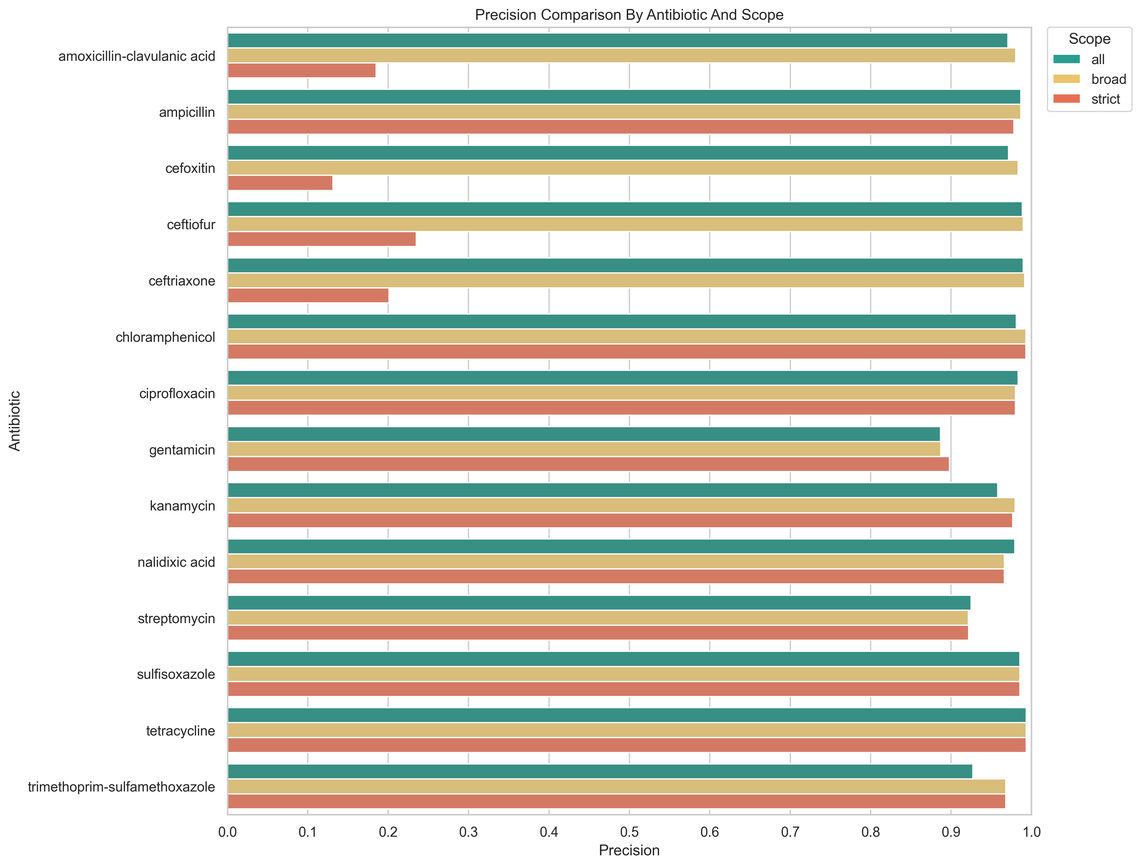
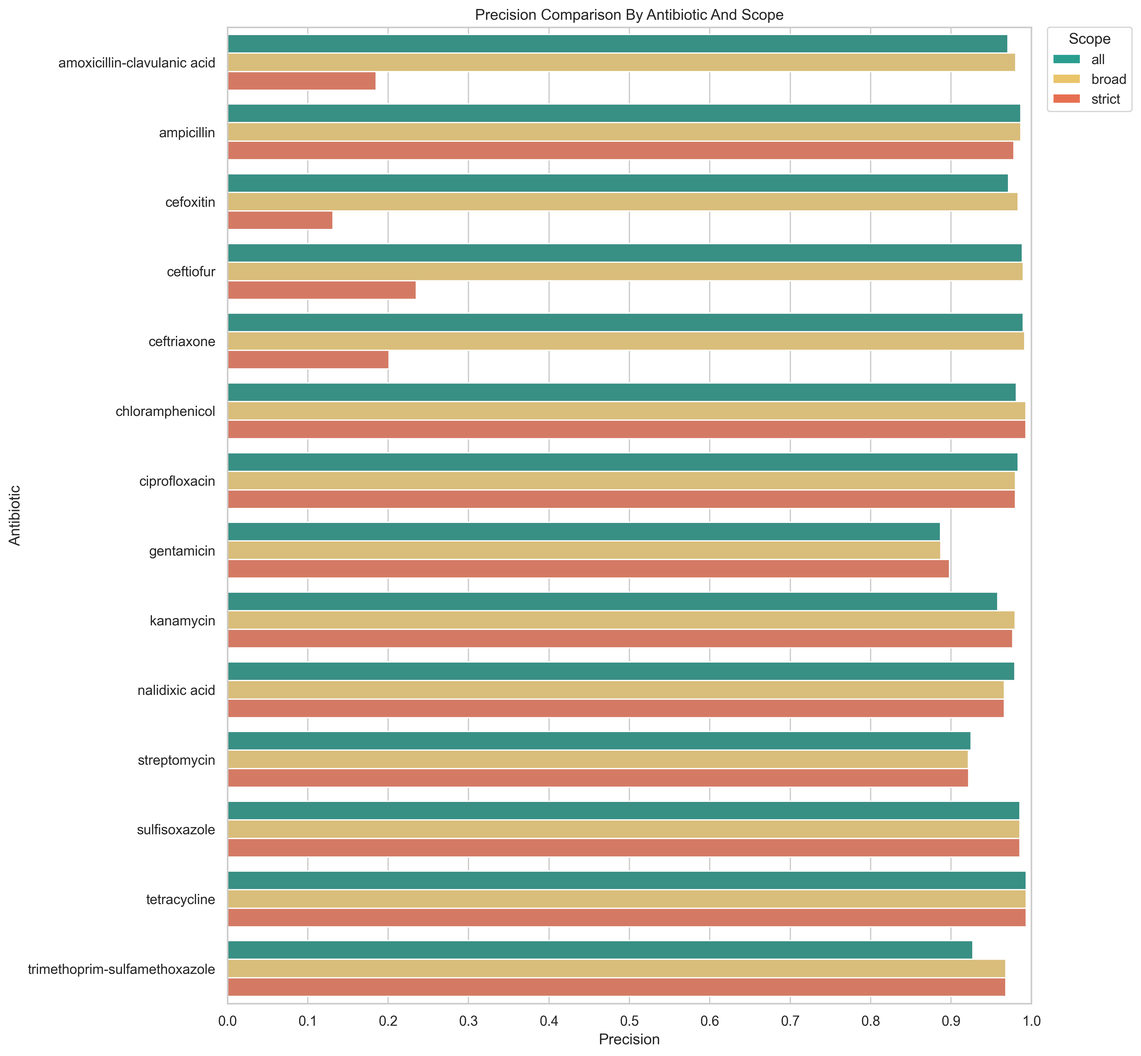
(probably) final format polishing

diff --git a/report/chapters/c4/c4_result.tex b/report/chapters/c4/c4_result.tex
@@ -2,7 +2,7 @@
 
 % Y doan: dat khung danh gia va noi ro nhung gi duoc giu co dinh qua moi thi nghiem.
 % Vai tro: xac dinh rang cac khac biet ket qua chu yeu den tu connection scope, khong phai do cohort hay workflow thay doi.
-All experiments use the same shared cleaned genotype-phenotype cohort, the same phenotype-processing and genotype-normalization pipeline, and the same antibiotic-specific prepared-input workflow described in Chapter~3. The machine-learning experiments also keep the same one-model-per-antibiotic strategy and the same five-fold stratified cross-validation protocol across all settings. Under this shared framework, performance differences reflect how genotype evidence is connected to phenotype under different biological scopes rather than changes in cohort construction, preprocessing, or training design.
+All experiments use the same shared cleaned genotype-phenotype cohort, the same phenotype-processing and genotype-normalization pipeline, and the same antibiotic-specific prepared-input workflow described in Chapter~3. The machine-learning experiments also keep the same one-model-per-antibiotic strategy and the same five-fold stratified cross-validation protocol across all settings. Under this shared framework, performance differences reflect how genotype evidence is connected to phenotype under different biological scopes rather than changes in cohort construction, preprocessing, or training configuration.
 
 % Y doan: liet ke pham vi thuc nghiem va cac quy uoc danh gia.
 % Vai tro: giup nguoi doc biet ro cac bai toan cu the duoc danh gia va cach doc metric trong ca chuong.
@@ -64,7 +64,7 @@ Third, \textit{all} is preferred for amoxicillin-clavulanic acid, ampicillin, ce
 \label{fig:recall-by-scope}
 \end{figure}
 
-Figure~\ref{fig:recall-by-scope} identifies the antibiotics for which broader determinant evidence is needed to recover resistant isolates. The strongest recall gains appear when moving from \textit{strict} to \textit{broad} or \textit{all}, especially for amoxicillin-clavulanic acid, ceftriaxone, and ceftiofur, which indicates that narrow matching misses a substantial share of the resistant class in these tasks.
+Figure~\ref{fig:recall-by-scope} identifies the antibiotics for which broader determinant evidence is needed to recover resistant isolates. The strongest recall gains appear when moving from \textit{strict} to \textit{broad} or \textit{all}, especially for amoxicillin-clavulanic acid, ceftriaxone, and ceftiofur, which indicates that narrow matching misses a substantial share of the resistant class in these prediction tasks.
 
 \begin{figure}[!htbp]
 \centering
@@ -78,7 +78,7 @@ Figure~\ref{fig:precision-by-scope} shows where that broader evidence begins to 
 \begin{figure}[!htbp]
 \centering
 \includegraphics[width=\textwidth]{figures/roc_auc_by_scope}
-\caption[Antibiotic-specific ROC-AUC by scope.]{Antibiotic-specific ROC-AUC comparison across determinant-connection scopes.}
+\caption[Antibiotic-specific ROC-AUC by scope.]{Antibiotic-specific ROC-AUC comparison across the three determinant-connection scopes.}
 \label{fig:roc-auc-by-scope}
 \end{figure}
 
@@ -133,7 +133,7 @@ This trade-off is easier to see when the rule-based results are viewed across an
 \begin{figure}[!htbp]
 \centering
 \includegraphics[width=\textwidth]{figures/rule_recall_by_scope}
-\caption[Antibiotic-specific rule-based recall by scope.]{Antibiotic-specific rule-based recall comparison across biologically constrained scopes.}
+\caption[Antibiotic-specific rule-based recall by scope.]{Antibiotic-specific rule-based recall comparison across biologically constrained rule scopes.}
 \label{fig:rule-recall-by-scope}
 \end{figure}
 
@@ -142,7 +142,7 @@ Figure~\ref{fig:rule-recall-by-scope} shows that \textit{broad rule-based} subst
 \begin{figure}[!htbp]
 \centering
 \includegraphics[width=\textwidth]{figures/rule_precision_by_scope}
-\caption[Antibiotic-specific rule-based precision by scope.]{Antibiotic-specific rule-based precision comparison across biologically constrained scopes.}
+\caption[Antibiotic-specific rule-based precision by scope.]{Antibiotic-specific rule-based precision comparison across biologically constrained rule scopes.}
 \label{fig:rule-precision-by-scope}
 \end{figure}
 
@@ -150,7 +150,7 @@ Figure~\ref{fig:rule-precision-by-scope} shows the corresponding cost in precisi
 
 % Y doan: ket luan so sanh giua broad rule va broad ML.
 % Vai tro: cho thay ML co gia tri nhat khi phai ket hop broad evidence mot cach co chon loc.
-The most important gain from machine learning therefore appears when broader evidence must be combined selectively. For ceftriaxone, \textit{broad ML} reaches precision \(0.9916\) and recall \(0.9761\), preserving the sensitivity benefit of the broader evidence pool while avoiding the precision collapse of broad rule-based inference. The same pattern appears for ceftiofur, where \textit{broad ML} reaches precision \(0.9900\) and recall \(0.9760\). In short, the rule-based baselines show when direct matching is already enough, whereas the learned models are most valuable when multiple related determinants must be weighted rather than merely counted.
+The most important gain from machine learning therefore appears when broader evidence must be combined selectively. For ceftriaxone, \textit{broad ML} reaches precision \(0.9916\) and recall \(0.9761\), preserving the sensitivity benefit of the broader evidence pool while avoiding the precision collapse of broad rule-based inference. The same pattern appears for ceftiofur, where \textit{broad ML} reaches precision \(0.9900\) and recall \(0.9760\). In short, the rule-based baselines show when direct matching is already enough, whereas the learned models are most valuable when multiple related determinants must be weighted rather than simply counted as hits.
 
 \section{Feature Coverage and Zero-Feature Rows}
 
@@ -175,7 +175,7 @@ Feature-importance patterns indicate which retained determinants contribute most
 % Y doan: vi du strict.
 % Vai tro: cho thay strict co the noi bat len cac determinant hep va giai thich duoc sinh hoc.
 \paragraph{Strict scope: narrow mechanism-specific signals.}
-For ciprofloxacin under \textit{strict}, the top-ranked features are dominated by quinolone-related mutations and genes, especially \texttt{gyrA\_D87Y}, \texttt{gyrA\_S83F}, and \texttt{qnrB19}. This is consistent with the strong strict-scope performance on ciprofloxacin and supports the interpretation that narrow determinant evidence can already be highly informative when the biological mechanism is direct and specific.
+For ciprofloxacin under \textit{strict}, the top-ranked features are dominated by quinolone-related mutations and genes, especially \texttt{gyrA\_D87Y}, \texttt{gyrA\_S83F}, and \texttt{qnrB19}. This is consistent with the strong strict-scope performance on ciprofloxacin and supports the interpretation that narrow determinant evidence can already be highly informative when the biological mechanism is direct and tightly linked to the target phenotype.
 
 % Y doan: vi du broad.
 % Vai tro: cho thay broad bat duoc cross-resistance trong cung family.
@@ -185,7 +185,7 @@ For ceftriaxone under \textit{broad}, the highest-ranked features are led by bet
 % Y doan: vi du all.
 % Vai tro: cho thay all vua giu duoc signal hop ly vua de lo co-occurrence leakage.
 \paragraph{All scope: strongest coverage, but mixed biological specificity.}
-For amoxicillin-clavulanic acid under \textit{all}, highly plausible beta-lactamase-related features such as \texttt{blaCMY-2} remain dominant, but less directly related determinants such as \texttt{ant(2'')-Ia} and \texttt{aac(6')-Ib3} also rise in the ranking. A similar mixed pattern appears for trimethoprim-sulfamethoxazole, where expected \texttt{dfrA14} and \texttt{sul1}-related signals remain visible, but features such as \texttt{aadA2} and \texttt{blaCTX-M-15} also become predictive. These examples do not negate the predictive value of \textit{all}; rather, they clarify why the all-scope representation should be described as high-performing but more vulnerable to co-occurrence leakage.
+For amoxicillin-clavulanic acid under \textit{all}, highly plausible beta-lactamase-related features such as \texttt{blaCMY-2} remain dominant, but less directly related determinants such as \texttt{ant(2'')-Ia} and \texttt{aac(6')-Ib3} also rise in the ranking. A similar mixed pattern appears for trimethoprim-sulfamethoxazole, where expected \texttt{dfrA14} and \texttt{sul1}-related signals remain visible, but features such as \texttt{aadA2} and \texttt{blaCTX-M-15} also become predictive. These examples do not negate the predictive value of \textit{all}; rather, they clarify why the all-scope representation should be described as high-performing while remaining more vulnerable to co-occurrence leakage.
 
 \section{Main Findings}
 

diff --git a/report/chapters/conclusion.tex b/report/chapters/conclusion.tex
@@ -5,6 +5,6 @@ This study examined antimicrobial resistance prediction using curated AMR determ
 
 The central scientific result is that the genotype-to-phenotype connection rule matters substantially. The project compared three connection scopes: \textit{strict}, which keeps only narrow lineage-matched determinants; \textit{broad}, which allows broader within-class determinant evidence and therefore captures cross-resistance; and \textit{all}, which uses the full determinant background observed in the isolate and therefore offers maximum coverage at the cost of greater co-occurrence leakage risk. The results show that \textit{all} is the strongest global default for predictive performance because it produces the best overall ranking quality and eliminates the zero-feature problem entirely. At the same time, \textit{broad} is the strongest biologically constrained alternative. It often performs nearly as well as \textit{all} and is especially useful when same-class resistance mechanisms need to be captured without opening the feature space to all detected determinants. \textit{Strict} remains valuable as a narrow biological reference and performs extremely well for some antibiotics, but it is too sparse to serve as a universal default.
 
-The comparison with rule-based baselines clarifies why machine learning is useful in this setting. Direct determinant-based rules are already strong for some antibiotics whose phenotypes are tightly linked to specific genes or mutations. However, once broader within-class evidence must be considered, direct rules become too coarse. Machine learning preserves the benefit of wider scope while combining determinant evidence more selectively, which improves precision without sacrificing recall as severely as broad rule-based inference. Another major conclusion is that feature-engineering decisions in this project are not merely technical. The choice of phenotype thresholds, the way duplicated genotype detections are collapsed, the handling of combined class/subclass annotations, the manual resolution of rare but meaningful edge cases, and the final scope rule all directly shape the biological meaning of the model input. The pipeline is therefore best understood as a bioinformatics workflow with a supervised learning stage rather than as a classifier benchmark alone.
+The comparison with rule-based baselines clarifies why machine learning is useful in this setting. Direct determinant-based rules are already strong for some antibiotics whose phenotypes are tightly linked to specific genes or mutations. However, once broader within-class evidence must be considered, direct rules become too coarse. Machine learning preserves the benefit of wider scope while combining determinant evidence more selectively, which improves precision without sacrificing recall as severely as broad rule-based inference. Another major conclusion is that feature-engineering decisions in this project are not merely technical. The choice of phenotype thresholds, the way duplicated genotype detections are collapsed, the handling of combined class/subclass annotations, the manual resolution of rare but meaningful edge cases, and the final scope rule all directly shape the biological meaning of the model input. The pipeline is therefore best understood as a bioinformatics workflow with a supervised learning stage, not as a classifier benchmark in isolation.
 
-Feature-importance analysis further supports the main interpretation. Under narrow scopes, top-ranked features often align closely with expected resistance mechanisms, while the widest scope reveals a mixture of biologically plausible signals and co-occurring determinants from other resistance contexts. This reinforces the conclusion that predictive gain and interpretability do not increase together automatically; they must be balanced through explicit scope design. The most immediate extensions are external validation on an independent cohort, MIC prediction instead of binary phenotype prediction, and richer biological interpretation of top-ranked determinants at the antibiotic level. A broader extension would be to compare curated determinant-based workflows against wider resistome or pan-genome feature representations while keeping the same antibiotic-specific evaluation philosophy. These directions would test how much additional predictive value can be gained without losing the interpretability that motivated the determinant-based design.
+Feature-importance analysis further supports the main interpretation. Under narrow scopes, top-ranked features often align closely with expected resistance mechanisms, while the widest scope reveals a mixture of biologically plausible signals and co-occurring determinants from other resistance contexts. This reinforces the conclusion that predictive gain and interpretability do not increase together automatically; they must be balanced through explicit scope design. The most immediate extensions are external validation on an independent cohort, MIC prediction instead of binary phenotype prediction, and richer biological interpretation of top-ranked determinants at the antibiotic level. A broader extension would be to compare curated determinant-based workflows against wider resistome or pan-genome feature representations while keeping the same antibiotic-specific evaluation philosophy. These directions would test how much additional predictive value can be gained without losing the interpretability that motivated the determinant-based workflow in the first place.

diff --git a/report/chapters/c3/c3_solution.tex b/report/chapters/c3/c3_solution.tex
@@ -2,13 +2,13 @@
 
 % Y doan: mo dau phan data bang vai tro cua pipeline trong bai toan.
 % Vai tro: dat khung cho ba buoc du lieu chinh va nhan manh bien thuc nghiem nam o connection scope.
-This study uses a staged determinant-based pipeline to transform curated NCBI pathogen-surveillance resources\footnote{\url{https://www.ncbi.nlm.nih.gov/pathogens/}} into antibiotic-specific prediction tables. The workflow first restricts both resources to a shared genotype-phenotype cohort, then normalizes determinant-level genotype evidence, and finally reconnects that evidence to phenotype under alternative biological scopes. This structure keeps cohort definition, determinant normalization, and scope-dependent feature construction explicit before model fitting begins.
+This study uses a staged determinant-based pipeline to transform curated NCBI pathogen-surveillance resources\footnote{\url{https://www.ncbi.nlm.nih.gov/pathogens/}} into antibiotic-specific prediction tables. The workflow first restricts both resources to a shared genotype-phenotype cohort, then normalizes determinant-level genotype evidence, and finally reconnects that evidence to phenotype under alternative biological scopes. This structure keeps cohort definition, determinant normalization, and scope-dependent feature construction explicit before the modeling stage begins.
 
 % Y doan: mo ta xu ly phenotype va quy tac loc khang sinh.
 % Vai tro: xac dinh label dich va cohort phenotype sach truoc khi noi sang genotype.
 \subsection{Phenotype Processing}
 
-Phenotype processing starts from curated AST records available through the NCBI Pathogen Detection AST Browser\footnote{\url{https://www.ncbi.nlm.nih.gov/pathogens/ast}} and is restricted immediately to isolates that also appear in the genotype resource through a shared \texttt{BioSample} identifier. After cohort alignment, only rows with the required identifying and phenotype fields are retained, and only the labels \texttt{susceptible} and \texttt{resistant} are kept for downstream binary prediction. Any \texttt{(BioSample, Antibiotic)} pair that appears with both labels is removed as contradictory evidence.
+Phenotype processing starts from curated AST records available through the NCBI Pathogen Detection AST Browser\footnote{\url{https://www.ncbi.nlm.nih.gov/pathogens/ast}} and is restricted immediately to isolates that also appear in the genotype resource through a shared \texttt{BioSample} identifier. After cohort alignment, only rows with the required identifying and phenotype fields are retained, and only the labels \texttt{susceptible} and \texttt{resistant} are kept for downstream binary prediction. Any \texttt{(BioSample, Antibiotic)} pair that appears with both labels is removed as contradictory phenotype evidence.
 
 If multiple phenotype rows remain for the same \texttt{(BioSample, Antibiotic)} pair after contradictory labels have been removed, one row is retained by selecting the lowest MIC observation after explicit ordering of measurement signs. This rule makes duplicate resolution deterministic while preserving a consistent and less extreme MIC value within the same final phenotype label, which may be useful if the workflow is later extended beyond binary prediction. The cleaned phenotype data are then split into antibiotic-specific tables because every downstream prediction task is defined at the antibiotic level.
 
@@ -74,7 +74,7 @@ Several rare but biologically meaningful cases require explicit manual normaliza
   \draw[linearrow] (tie) -- (normalize);
   \draw[linearrow] (normalize) -- (output);
 \end{tikzpicture}
-\caption[Genotype-processing flowchart.]{Flowchart summarizing the genotype-cleaning and determinant-normalization procedure.}
+\caption[Genotype-processing flowchart.]{Flowchart summarizing the genotype-cleaning and determinant-normalization steps used in the workflow.}
 \label{fig:genotype-processing-flow}
 \end{figure}
 
@@ -94,6 +94,6 @@ Under the \textit{strict} scope, a genotype row is retained only if its normaliz
 \label{fig:broad-scope-example}
 \end{figure}
 
-One important special case is \texttt{trimethoprim-sulfamethoxazole}. For this combination drug, the strict scope is manually expanded so that matching can use biologically meaningful component subclasses rather than a literal compound token only. This makes the strict setting component-aware for that antibiotic and prevents an artificial loss of retained genotype evidence.
+One important special case is \texttt{trimethoprim-sulfamethoxazole}. For this combination drug, the strict scope is manually expanded so that matching can use biologically meaningful component subclasses rather than a literal compound token only. This makes the strict setting component-aware for that antibiotic and avoids an artificial loss of retained evidence during scope matching.
 
 These three scopes represent progressively wider biological assumptions. A narrow subclass match preserves the most specific interpretation, but it can leave some isolates with sparse retained evidence. A broader family-level match admits within-class signals that may reflect cross-resistance across related drugs. The all-scope representation provides the widest determinant coverage and therefore shows how much predictive signal remains once the biological restriction is removed.

diff --git a/report/chapters/c1/c1_related_work.tex b/report/chapters/c1/c1_related_work.tex
@@ -27,11 +27,11 @@ The third family moves toward broader genome-wide representations and more featu
 
 % Ý đoạn: phát biểu research gap một cách trực tiếp.
 % Vai trò: nói rõ literature còn thiếu gì và tại sao study này cần thiết.
-Taken together, prior work has explored rule-based inference, determinant-based machine learning, and broader genome-wide prediction. Within the literature reviewed here, however, genotype-to-phenotype connection scope does not appear to have been treated explicitly as the main experimental variable in a determinant-based AMR prediction workflow. In other words, existing studies show that genomic AMR prediction is feasible, but they do not directly focus on how prediction behavior changes when curated determinant evidence is connected to phenotype under narrower or broader biological scope assumptions.
+Taken together, prior work has explored rule-based inference, determinant-based machine learning, and broader genome-wide prediction. Within the literature reviewed here, however, genotype-to-phenotype connection scope does not appear to have been treated explicitly as the main experimental variable in a determinant-based AMR prediction workflow. In other words, existing studies show that genomic AMR prediction is feasible, but they do not directly focus on how prediction behavior changes when curated determinant evidence is connected to phenotype under narrower or broader biological assumptions.
 
 % Ý đoạn: self-positioning của nghiên cứu hiện tại trong landscape của literature.
 % Vai trò: cho biết đề tài đứng ở đâu và khác gì so với các hướng trước đó.
-The study is most closely aligned with the biology-informed machine-learning family, while remaining situated between strict rule-based inference and broader genome-wide prediction. Curated determinant-level features preserve interpretability, rule-based baselines provide constrained references, and multiple connection scopes make it possible to compare how biological restriction changes prediction behavior under a matched antibiotic-specific setting.
+The study is most closely aligned with the biology-informed machine-learning family, while remaining situated between strict rule-based inference and broader genome-wide prediction. Curated determinant-level features preserve interpretability, rule-based baselines provide constrained references, and multiple connection scopes make it possible to compare how biological restriction changes prediction behavior under a matched antibiotic-level setting.
 
 % Ý đoạn: chốt contribution ở mức conceptual.
 % Vai trò: nhấn mạnh report này là controlled comparison về biological scope,

diff --git a/report/chapters/c1/c1_problem.tex b/report/chapters/c1/c1_problem.tex
@@ -3,7 +3,7 @@
 % Ý đoạn: định nghĩa bài toán AMR prediction theo nghĩa khái niệm,
 % rồi giới thiệu Salmonella như case study cụ thể.
 % Vai trò: đặt phạm vi của bài toán trước khi đi vào formulation chi tiết hơn.
-Antimicrobial resistance prediction from genomic data is the task of estimating a laboratory resistance phenotype from DNA-derived evidence. More generally, it is a genotype-to-phenotype inference problem in which resistance-related genomic information is used to anticipate observed antimicrobial response~\citep{shen2024comparison,ren2022prediction}. The scientific interest of this study is therefore broader than one organism or one dataset. In this report, \textit{Salmonella enterica} is used as the case study because it is well represented in surveillance resources and provides enough paired genotype and phenotype records for a credible antibiotic-specific evaluation.
+Antimicrobial resistance prediction from genomic data is the task of estimating a laboratory resistance phenotype from DNA-derived evidence. More generally, it is a genotype-to-phenotype inference problem in which resistance-related genomic information is used to anticipate observed antimicrobial response~\citep{shen2024comparison,ren2022prediction}. The scientific interest of this study is therefore broader than one organism or one dataset. In this report, \textit{Salmonella enterica} is used as the case study because it is well represented in surveillance resources and provides enough paired genotype and phenotype records for a credible antibiotic-specific evaluation setting.
 
 % Ý đoạn: mô tả input-output của bài toán theo mức vừa đủ,
 % nhưng chưa đi sâu vào workflow hay implementation.

diff --git a/report/chapters/c2/c2_chapter.tex b/report/chapters/c2/c2_chapter.tex
@@ -27,7 +27,7 @@ AMR determinants are broader than resistance genes alone. They include not only 
 
 % Ý đoạn: giải thích vì sao determinants cần được hiểu theo ngữ cảnh class/subclass
 % của kháng sinh, để nối sang phần genotype-phenotype relation.
-AMR determinants are also interpreted in relation to antibiotic classes and subclasses. A determinant may be associated with one specific drug, with a subgroup of related drugs, or with a broader antimicrobial family. This means that genotype in AMR research should not be understood as a collection of isolated genes or mutations without context. Instead, it should be interpreted as a structured representation of resistance-related genomic evidence whose meaning depends on determinant type, biological mechanism, and antibiotic context~\citep{feldgarden2021amrfinderplus}.
+AMR determinants are also interpreted in relation to antibiotic classes and subclasses. A determinant may be associated with one specific drug, with a subgroup of related drugs, or with a broader antimicrobial family. This means that genotype in AMR research should not be understood as a collection of isolated genes or mutations without context. Instead, it should be interpreted as a structured representation of resistance-related genomic evidence whose meaning depends on determinant type, biological mechanism, and the relevant antibiotic class context~\citep{feldgarden2021amrfinderplus}.
 
 \subsection{Phenotype}
 

diff --git a/notebook/export_result_figures.py b/notebook/export_result_figures.py
@@ -36,7 +36,7 @@ def save_scope_barplots(
     scope_palette: dict[str, str],
     figure_output_dir: Path,
 ) -> None:
-    plot_height = max(8, 0.7 * metrics["Antibiotic"].nunique())
+    plot_height = max(9, 0.85 * metrics["Antibiotic"].nunique())
     x_ticks = [value / 10 for value in range(0, 11)]
 
     for metric_name, title, xlabel, filename in metric_specs:
@@ -96,7 +96,7 @@ def save_rule_barplots(rule_metrics: pd.DataFrame, figure_output_dir: Path) -> N
         ),
     ]
 
-    plot_height = max(8, 0.7 * rule_metrics["Antibiotic"].nunique())
+    plot_height = max(9, 0.85 * rule_metrics["Antibiotic"].nunique())
     x_ticks = [value / 10 for value in range(0, 11)]
 
     for metric_name, title, xlabel, filename in metric_specs:

diff --git a/report/chapters/c3/c3_modeling.tex b/report/chapters/c3/c3_modeling.tex
@@ -10,7 +10,7 @@ Only the \textit{strict} and \textit{broad} scopes are used for rule-based predi
 
 % Y doan: giai thich y nghia cua baseline.
 % Vai tro: noi ro vi sao can baseline nay trong thiet ke thuc nghiem.
-As a result, the rule-based baselines provide a direct genotype-to-phenotype reference and help separate gains produced by broader biological scope from gains produced by machine learning itself.
+As a result, the rule-based baselines provide a direct genotype-to-phenotype reference and help separate gains produced by broader biological scope from gains produced by the learning step itself.
 
 \section{Machine-Learning Prediction}
 
